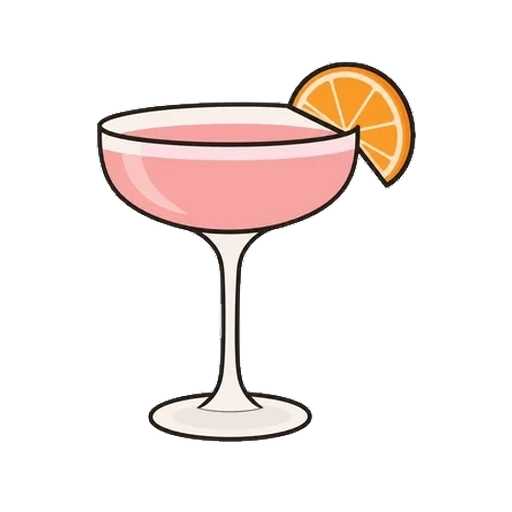
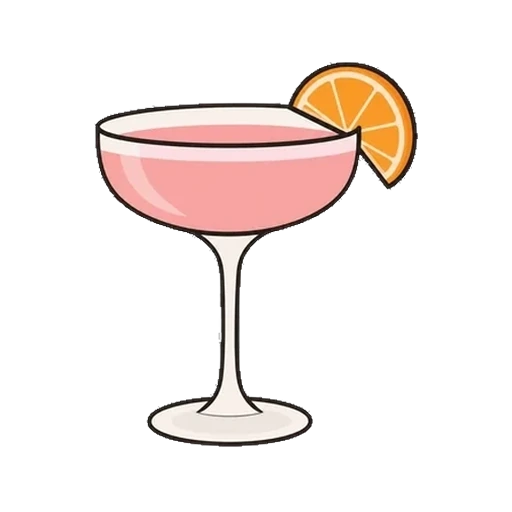
Le paquet cadeau de Julien remplace le pictogramme
Image generee par Julien, traitee ici : detouree, recadree sur l'encre,
mise a la meme echelle que le reste du catalogue, sortie en webp 512.

Le detourage se fait par DIFFUSION depuis les bords, pas par un seuil
global "tout ce qui est blanc devient transparent" : le ruban du paquet
est creme, tres proche du blanc, et un seuil l'aurait troue. La diffusion
s'arrete au contour noir, donc l'interieur du dessin est intact.

cadrer_illustrations.py passe ensuite sur tout le dossier : les six
dessins ont maintenant leur cote le plus long a 389 px (76 % de la
toile), le paquet compris. Il ne paraitra ni plus gros ni plus petit que
le cocktail a cote.

DEUX PIEGES RENCONTRES, tous les deux invisibles a la lecture du code :

1. L'ecouteur `load` ne partait jamais. Le src est dans le HTML, donc
   l'image etait deja chargee quand le script s'executait -- l'evenement
   etait passe. Il faut tester `complete && naturalWidth` d'abord.
2. `hidden` ne cachait pas le pictogramme : `display: grid` bat le
   `display: none` que le navigateur pose sur [hidden]. Les deux
   s'empilaient dans le socle. Meme piege que .cadeau[hidden] et
   .cadeau-sous[hidden], deja traites plus haut dans le fichier.

Et le socle passe d'un aspect-ratio a une hauteur ferme de 156 px : le
ratio cede devant le contenu, donc le dessin carre etirait le socle au
lieu d'entrer dedans.

Changed region(s): [[0.1875, 0.125, 0.8125, 0.5312], [0.2812, 0.5625, 0.625, 0.875]]

diff --git a/app-preview.html b/app-preview.html
@@ -2033,16 +2033,26 @@
          teinte de surface au-dessus suffit a ce qu'il pose sur quelque
          chose. Et le cadre reste bas (2,2/1) tant qu'il n'y a qu'un
          pictogramme dedans : un grand cadre a moitie vide se voit. */
+      /* Hauteur FERME, pas un aspect-ratio : le ratio cede devant le
+         contenu, donc le dessin (carre, 512 px) etirait le socle en
+         hauteur au lieu d'entrer dedans. Une hauteur en pixels est ici la
+         bonne reponse -- dans ce fichier, seules les tailles de texte
+         suivent --u, jamais les hauteurs. */
       .cadeau-scene {
         position: relative; display: grid; place-items: center;
-        width: 100%; aspect-ratio: 2.2 / 1; margin: 0 0 16px;
+        width: 100%; height: 156px; margin: 0 0 16px;
         border-radius: 16px; background: var(--s2);
       }
-      .cadeau-art { max-width: 76%; max-height: 90%; object-fit: contain; }
+      .cadeau-art { max-width: 60%; max-height: 84%; object-fit: contain; }
       .cadeau-boite {
         position: relative; width: 84px; height: 84px; border-radius: 26px;
         display: grid; place-items: center; background: var(--bouton);
       }
+      /* `display: grid` bat le `display: none` que le navigateur pose sur
+         [hidden] : sans cette ligne, cacher le pictogramme une fois le
+         dessin charge ne le cachait pas, et les deux s'empilaient. Meme
+         piege que .cadeau[hidden] et .cadeau-sous[hidden] plus haut. */
+      .cadeau-art[hidden], .cadeau-boite[hidden] { display: none; }
       .cadeau-boite svg {
         width: 42px; height: 42px; fill: none; stroke: #fff;
         stroke-width: 1.6; stroke-linecap: round; stroke-linejoin: round;
@@ -9612,16 +9622,24 @@ $("#pf-avis")?.addEventListener("click", function () {
 var CADEAU = $("#cadeau"), CADEAU_SCENE = $("#cadeau-scene"), CADEAU_BTN = $("#cadeau-btn");
 
 /* Le dessin du cadeau prend la place du pictogramme -- mais SEULEMENT
-   s'il existe. art-cadeau.webp n'est pas encore dessine ; tant qu'il
-   manque, l'evenement load ne part jamais, le pictogramme reste, et
-   personne ne voit d'image cassee. */
+   s'il existe. Si le fichier manque, l'evenement load ne part jamais, le
+   pictogramme reste, et personne ne voit d'image cassee.
+
+   ⚠ Le test `complete` n'est pas une precaution, c'est LE cas courant :
+   le src est dans le HTML, donc l'image est souvent deja chargee (cache,
+   ou simplement plus rapide que le script) quand ce code s'execute --
+   `load` est alors DEJA passe et l'ecouteur seul ne se declenche jamais.
+   naturalWidth en plus de complete : une image cassee est "complete"
+   elle aussi, avec une largeur nulle. */
 (function () {
   var art = $("#cadeau-art"), pictogramme = $("#cadeau-boite");
   if (!art || !pictogramme) return;
-  art.addEventListener("load", function () {
+  function poser() {
     art.hidden = false;
     pictogramme.hidden = true;
-  });
+  }
+  if (art.complete && art.naturalWidth > 0) poser();
+  else art.addEventListener("load", poser);
 })();
 
 /* Le jeton d'appareil, pour le bonus de bienvenue.
